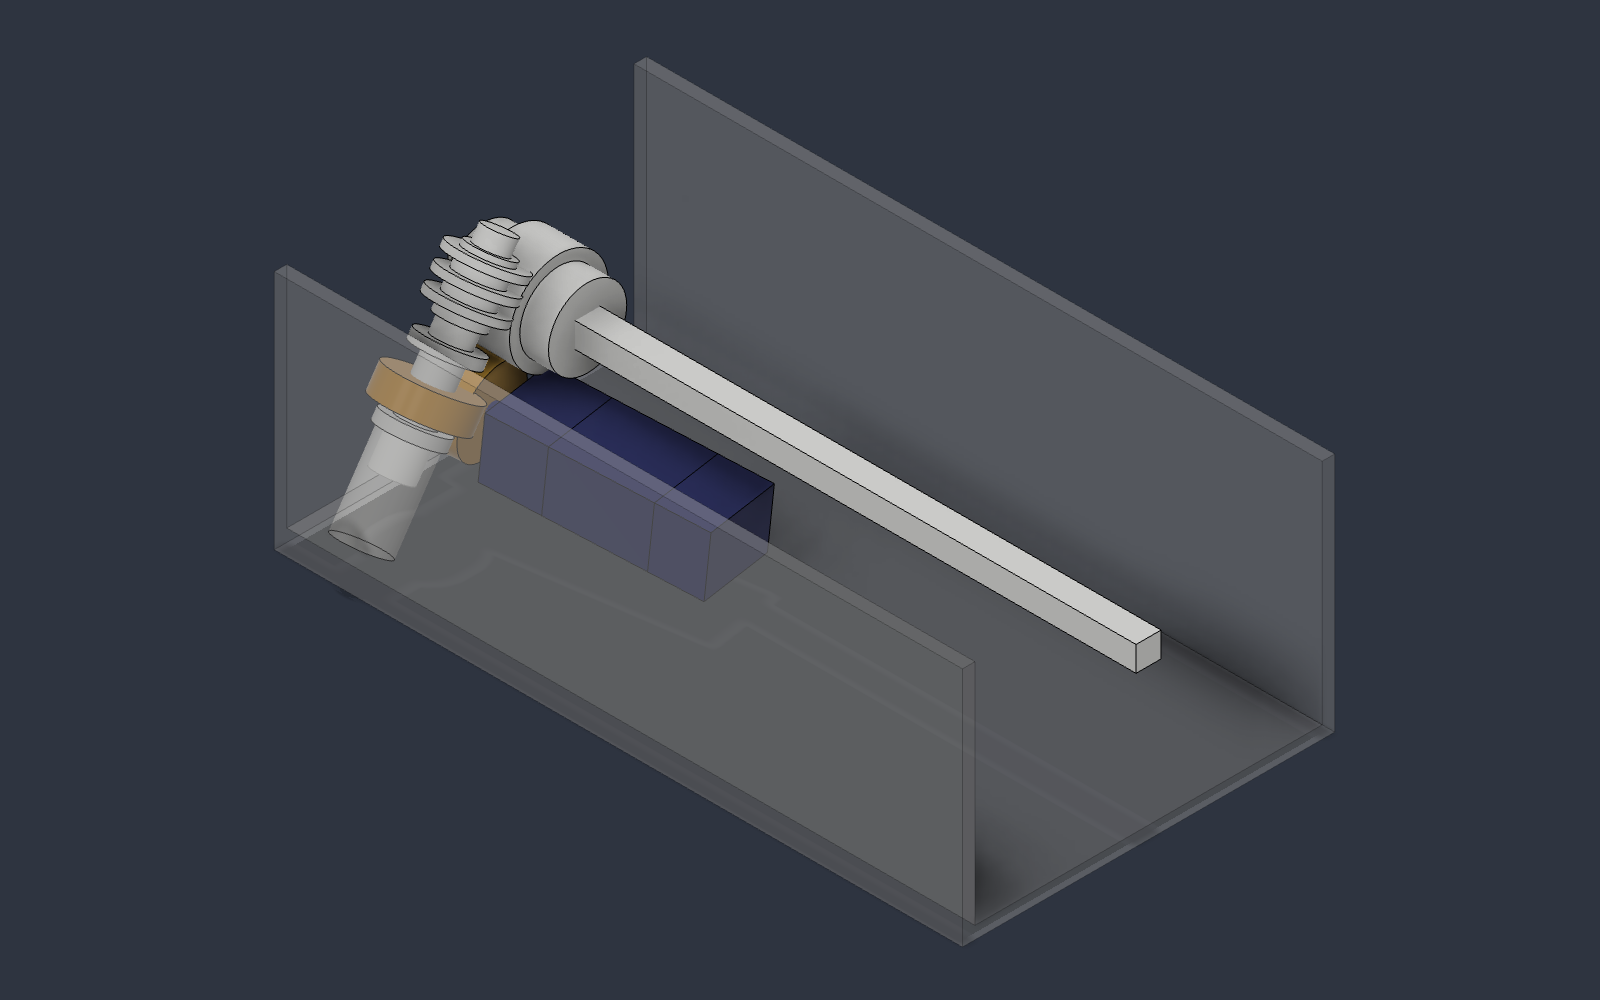
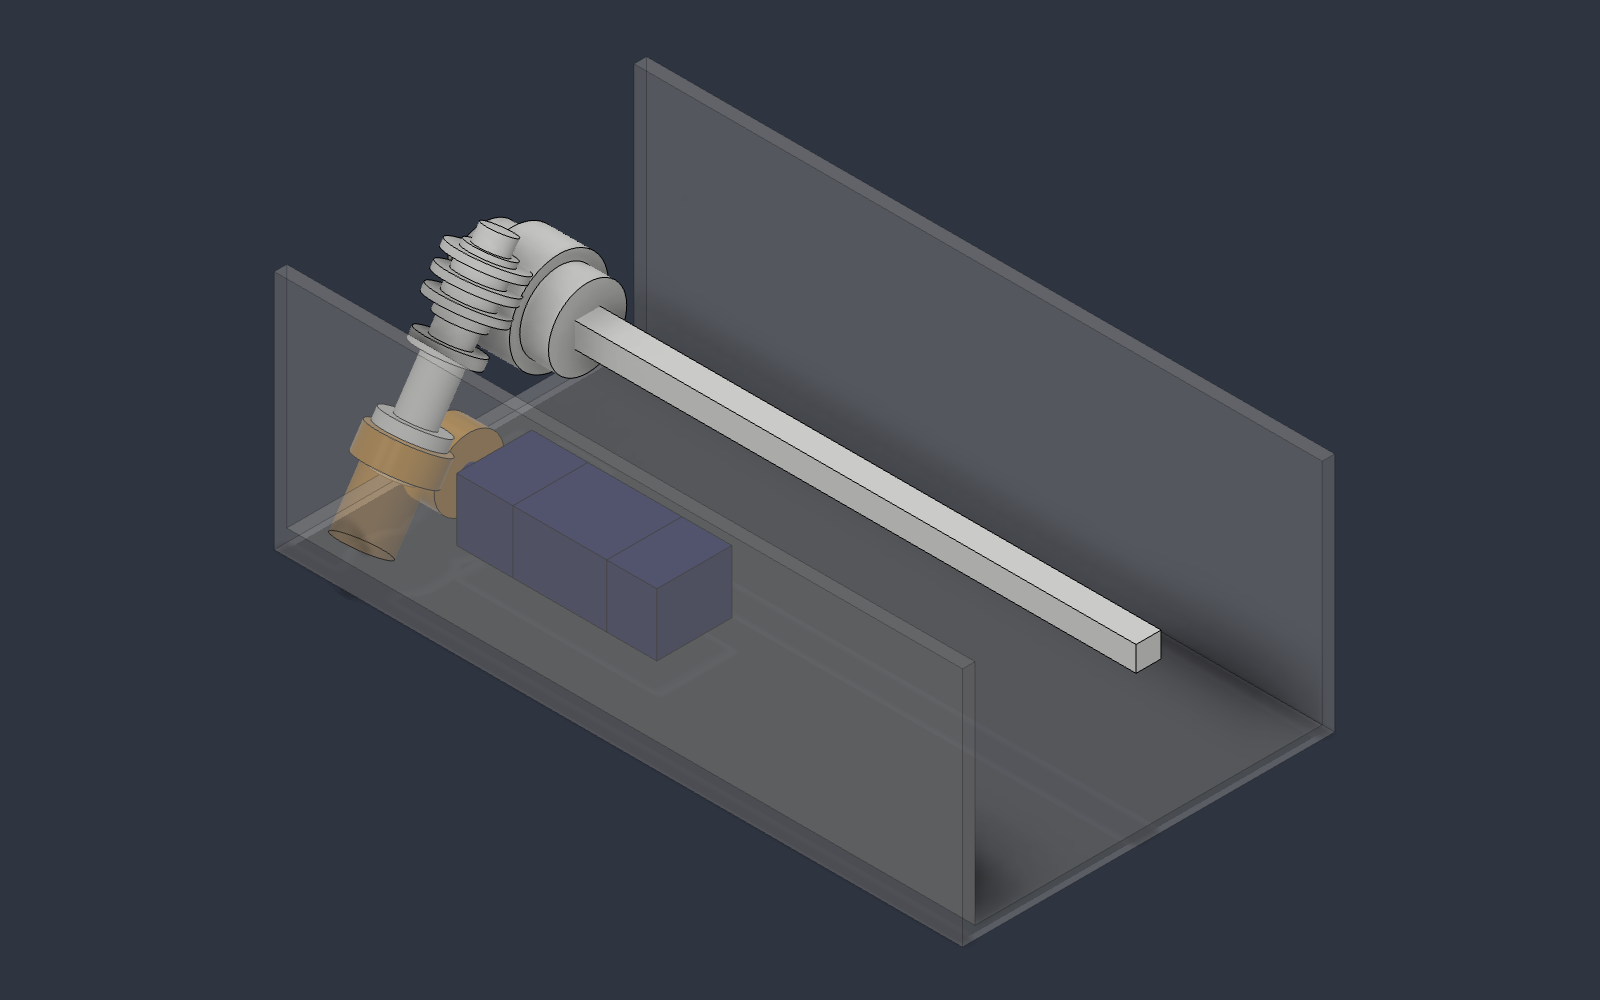
Drive gear moves onto a printed spline connector; worm stays unmodified

Changed region(s): [[0.1875, 0.341, 0.5, 0.558]]

diff --git a/hardware/mechanical/fusion/TiltLayout/TiltLayout.py b/hardware/mechanical/fusion/TiltLayout/TiltLayout.py
@@ -1,8 +1,8 @@
 """TiltLayout: layout/fit study for the motorized tilter (Fusion 360 script).
 
-Builds reference bodies for the headrail end pocket, the factory worm + worm wheel + wand connector, and the motor
-drive: a crossed-axis (90°, 45° helix) helical gear pair. One gear sits on the worm shaft between its two flanges;
-the pinion is on an N20 gear motor lying parallel to the tilt rod. Crossed helicals at 45° are not self-locking, so
+Builds reference bodies for the headrail end pocket, the factory worm + worm wheel, and the motor drive: a
+crossed-axis (90°, 45° helix) helical gear pair. The driven gear is part of a NEW printed wand connector that grips the
+worm's 8-ridge spline (the worm itself is unmodified); the pinion is on an N20 gear motor lying parallel to the tilt rod. Crossed helicals at 45° are not self-locking, so
 the wand still back-drives the motor, and their axes don't intersect, so no shaft passes through the other gear.
 
 All sizes are Fusion User Parameters prefixed "tl_". Edit them in Modify > Change Parameters, then run the
@@ -53,18 +53,18 @@ PARAMS = {
     'tl_flange2_t':     (1.77, 'mm', 'Lower flange thickness'),
     'tl_spline_d':      (6.0, 'mm', 'Spline OD (8 ridges)'),
     'tl_spline_len':    (5.0, 'mm', 'Spline length'),
-    # Factory wand connector (reference only)
-    'tl_conn_d':        (8.13, 'mm', 'Wand connector OD'),
+    # Printed wand connector: grips the worm's 8-ridge spline, carries the helical gear and the wand loop
+    'tl_conn_d':        (8.13, 'mm', 'Connector body OD (factory size)'),
     'tl_conn_depth':    (5.3, 'mm', 'Connector socket depth on the spline'),
     'tl_conn_len':      (14.0, 'mm', 'Connector + loop length (estimate)'),
     # Crossed helical drive (45° helix, 90° shafts)
-    'tl_hg_d':          (12.0, 'mm', 'Helical gear pitch diameter (on worm shaft)'),
-    'tl_hp_d':          (12.0, 'mm', 'Helical pinion pitch diameter (on N20)'),
+    'tl_hg_d':          (10.0, 'mm', 'Helical gear pitch diameter (on worm shaft)'),
+    'tl_hp_d':          (10.0, 'mm', 'Helical pinion pitch diameter (on N20)'),
     'tl_h_mn':          (0.6, 'mm', 'Normal module of the helical pair'),
     'tl_hg_face':       (4.0, 'mm', 'Helical gear face width'),
     'tl_hp_face':       (5.0, 'mm', 'Helical pinion face width'),
-    'tl_gear_s':        (14.0, 'mm', 'Gear center along worm axis from thread center (flanges at 8.6 and 17.0)'),
-    'tl_motor_rot':     (-10.0, 'deg', 'Motor axis rotation about the worm axis (0 = parallel to rod)'),
+    'tl_gear_s':        (21.0, 'mm', 'Gear center along worm axis from thread center (spline 18.77-23.77)'),
+    'tl_motor_rot':     (0.0, 'deg', 'Motor axis rotation about the worm axis (0 = parallel to rod)'),
     # N20 gear motor
     'tl_n20_w':         (12.0, 'mm', 'N20 width'),
     'tl_n20_h':         (10.0, 'mm', 'N20 height (across flats)'),
@@ -72,7 +72,7 @@ PARAMS = {
     'tl_n20_mot_len':   (15.0, 'mm', 'Motor can length'),
     'tl_n20_enc_len':   (8.0, 'mm', 'Encoder + cap length'),
     'tl_n20_shaft_d':   (3.0, 'mm', 'Output shaft diameter'),
-    'tl_pinion_gap':    (3.0, 'mm', 'Pinion face to gearbox face'),
+    'tl_pinion_gap':    (4.0, 'mm', 'Pinion face to gearbox face'),
 }
 
 
@@ -260,11 +260,11 @@ def build(design):
     worm_top = S(-P['tl_worm_thread'] / 2 - P['tl_worm_pin_len'])
     B.component('Worm (factory)', [('Worm', B.union(sections))], 1.0, 'Plastic - Matte (White)')
 
-    # --- Factory wand connector (reference) ---
+    # --- NEW printed wand connector (socket over the spline, carries the gear and the wand loop) ---
     conn = B.cyl(S(worm_end - P['tl_conn_depth']), P['tl_conn_d'] / 2,
                  S(worm_end - P['tl_conn_depth'] + P['tl_conn_len']))
-    B.component('Wand connector (factory)', [('Connector + loop envelope', conn)], 0.6,
-                'Plastic - Translucent Matte (White)')
+    B.component('NEW wand connector', [('Connector + loop envelope', conn)], 0.6,
+                'Plastic - Translucent Matte (Yellow)')
 
     # --- Crossed helical drive + N20 ---
     gs = P['tl_gear_s']
@@ -290,7 +290,7 @@ def build(design):
     mot = seg(mot_start, P['tl_n20_mot_len'])
     enc_start = add(mot_start, mul(u, P['tl_n20_mot_len']))
     enc = seg(enc_start, P['tl_n20_enc_len'])
-    B.component('NEW helical gear on worm', [('Helical gear envelope', gear)], 1.0, 'Plastic - Glossy (Yellow)')
+    B.component('NEW helical gear on connector', [('Helical gear envelope', gear)], 1.0, 'Plastic - Glossy (Yellow)')
     B.component('NEW helical pinion', [('Pinion envelope', pinion)], 1.0, 'Plastic - Glossy (Yellow)')
     B.component('N20 motor', [('Shaft', shaft), ('Gearbox', gbx), ('Motor', mot), ('Encoder', enc)], 1.0,
                 'Plastic - Glossy (Blue)')
@@ -321,6 +321,16 @@ def build(design):
     rod_clear = min(dist_to_line(q, rod_c, X) for q in samples) - P['tl_wheel_hub_d'] / 2
     worm_clear = min(dist_to_line(q, p0, d) for q in samples if 0 <= dot(sub(q, p0), d) <= worm_end) \
         - P['tl_flange_d'] / 2 if any(0 <= dot(sub(q, p0), d) <= worm_end for q in samples) else 99.0
+    g0, g1 = gs - P['tl_hg_face'] / 2, gs + P['tl_hg_face'] / 2
+    spline_start = worm_end - P['tl_spline_len']
+    if g0 >= spline_start - 0.01 and g1 <= worm_end - P['tl_spline_len'] + P['tl_conn_depth'] + 0.01:
+        gear_where = 'on the connector, over the spline'
+    elif g0 >= spline_start:
+        gear_where = 'on the connector, below the spline'
+    elif g0 >= flange1_end and g1 <= flange2_start:
+        gear_where = 'on the plain shaft between the flanges (needs a pin or flat)'
+    else:
+        gear_where = 'OVERLAPS a flange'
     report = [
         'Worm-wheel center distance: {:.2f} mm (ratio {:.0f}:1)'.format(cd, 16),
         'Worm top end: Y {:.1f}, Z {:.1f}  (rail top Z {:.1f})'.format(worm_top[1], worm_top[2], h),
@@ -332,9 +342,7 @@ def build(design):
         'Helical center distance {:.2f} mm, pinion center Y {:.1f} Z {:.1f}'.format(rg + rp, pc[1], pc[2]),
         'Motor clearance to worm-wheel barrel: {:.2f} mm'.format(rod_clear),
         'Motor clearance to worm flanges: {:.2f} mm'.format(worm_clear),
-        'Gear on worm sits between flanges: {}'.format(
-            'yes' if (gs - P['tl_hg_face'] / 2) >= flange1_end and (gs + P['tl_hg_face'] / 2) <= flange2_start
-            else 'NO'),
+        'Gear position: {}'.format(gear_where),
     ]
     problems = []
     if min(ys) < -w / 2 or max(ys) > w / 2:
@@ -347,7 +355,7 @@ def build(design):
         problems.append('motor too close to the worm-wheel barrel')
     if worm_clear < 0.3:
         problems.append('motor too close to the worm flanges')
-    if not ((gs - P['tl_hg_face'] / 2) >= flange1_end and (gs + P['tl_hg_face'] / 2) <= flange2_start):
+    if gear_where.startswith('OVERLAPS'):
         problems.append('helical gear overlaps a flange (adjust tl_gear_s / tl_hg_face)')
     report.append('')
     report.append('FIT OK' if not problems else 'CHECK: ' + '; '.join(problems))

diff --git a/hardware/mechanical/tilter-analysis.md b/hardware/mechanical/tilter-analysis.md
@@ -85,34 +85,39 @@ which matches module 0.88 (π × 0.88 = 2.76). The worm and wheel are a matched 
 - Lead angle ≈ atan(2.76 / (π × 9.24)) ≈ 5.4°: **self-locking**.
 - The wand loop connector engages only the bottom ~5 mm splined section (5.6 mm Ø).
 
-## Chosen concept: crossed helical gear on the worm shaft
-Evaluated in the [TiltLayout](fusion/README.md) fit study (2026-10-25):
+## Chosen concept: crossed helical gear on a new printed wand connector
+Evaluated in the [TiltLayout](fusion/README.md) fit study, built and checked live in Fusion (2026-10-25).
 
 | Concept | Result |
 |---|---|
 | Motor parallel to the worm (spur drive) | ✗ A 35 mm N20 at a 56° slope is taller than the 36.5 mm rail |
-| Gear on a sleeve over the spline | ✗ The factory connector already covers the whole 5 mm spline |
-| 90° bevel (miter) gear on a printed connector | ✗ Near the front-bottom corner: misses the rail by 1–2 mm for every size tried, and the connector would pass through the pinion's apex |
-| **Crossed helical pair (45° helix, 90° shafts), gear on the worm shaft between the flanges** | ✓ Fits with ~1 mm clearances. Motor lies parallel to the rod, mid-rail |
+| 90° bevel (miter) gear at the connector | ✗ Misses the rail by 1–2 mm, and the connector passes through the pinion's apex |
+| Helical gear on the plain shaft between the flanges | ✗ The shaft is smooth, slick acetal: a printed gear would slip and glue won't hold. It needs drilling or filing |
+| **Crossed helical pair, driven gear part of a new printed wand connector on the 8-ridge spline** | ✓ **Worm unmodified.** Uses the spline the factory already uses to carry wand torque |
 
 ```
-  worm (factory) ── upper flange ──[ helical gear 12 mm PD ]── lower flange ── spline ── wand connector (factory)
-                                          ╲ 90° crossed, 12 mm centers
-                                     [ helical pinion ]── N20 (axis ~parallel to the rod, toward the tilt drums)
+ worm (factory, unmodified) ── lower flange ── 8-ridge spline
+                                                  │
+                         [ NEW printed connector: spline socket + helical gear + wand loop + snap tabs ]
+                                                  ╲ 90° crossed, 10 mm centers
+                                        [ helical pinion ]── N20 (parallel to the rod)
 ```
 
-- **Factory parts stay:** worm wheel, worm, and wand connector + loop, all unchanged except fixing the gear to the worm.
-- **Gear on the worm:** the 8.4 mm plain shaft (5.6 mm Ø) between the flanges carries a 4 mm wide helical gear. Ways to fix it:
-  (a) a 1.5 mm cross-pin through the shaft with a slotted gear hub (keeps the molded worm, the quietest option);
-  (b) a printed replacement worm with the gear integral (no drilling; module 0.88, single start, lead 2.76 mm).
-  The housing then supports the worm on the upper pin and the lower flange/spline end instead of between the flanges.
-- **Helical pair:** 45° helix, normal module ≈ 0.6, both 12 mm pitch diameter → **1:1**, 12 mm center distance. Gear centered 14 mm down the worm from the thread center (between the flanges at 8.6 and 17.0). At 45° it is
-  **not self-locking**, so the wand back-drives the motor. The 16:1 worm still locks the slats.
-- **N20 position (default):** swung 10° about the worm axis (it tips slightly toward the floor and the back wall as it runs
-  along the rod). Envelope X 2.0–36.2 mm, Y −12.9 to 3.7, Z 3.7–16.7. Uses ~36 mm of the 110 mm pocket.
+- **Factory parts kept:** worm wheel and worm, unchanged. The factory wand connector is replaced by a printed one.
+- **New connector:** 5.3 mm deep 8-ridge socket on the spline (≈ 6.0 OD / 5.0 root), a helical gear ring around the socket,
+  the wand loop below, and flexible tabs that snap into the housing like the original.
+- **Helical pair:** 45° helix, 1:1, 10 mm pitch diameters, 10 mm centers. Not self-locking, so the wand back-drives the motor.
+  The 16:1 worm still locks the slats.
+- **N20 position:** parallel to the rod. X 6.5–38.5, Y −19.1 to −7.1, Z 2.5–12.5.
+  Clearances: floor 2.5 mm, room-side wall ≈ 2 mm, worm flange 2.1 mm, worm-wheel barrel 7.3 mm.
 - **Total ratio:** N20 (1:30–1:50) × 1 × 16. Full 60° travel = 2.67 worm turns.
-- **Encoder:** 14 counts/motor rev × 30 × 16 ≈ 6,700 counts per rod turn → ~1,100 counts across the 60° travel.
-- Clearances: motor to the worm-wheel barrel (12.5 mm Ø, measured) **1.1 mm**; to the worm flanges 2.2 mm; to the floor 3.7 mm.
+
+### FDM printing notes
+- Print the connector and both helical gears **axis vertical**. 45° helix teeth are a 45° overhang, which prints cleanly, and
+  the spline socket comes out round and accurate.
+- Gear teeth this small want a **0.2 mm nozzle** (normal module ≈ 0.8 → about 9 teeth on a 10 mm pitch diameter). PETG or
+  PLA+ for the first test, nylon/PA later for wear.
+- Spline socket: print a tolerance test (socket clearance 0.1 / 0.15 / 0.2 mm) before the real part.
 
 ### Wand-loop connector (factory)
 | Feature | Value |
